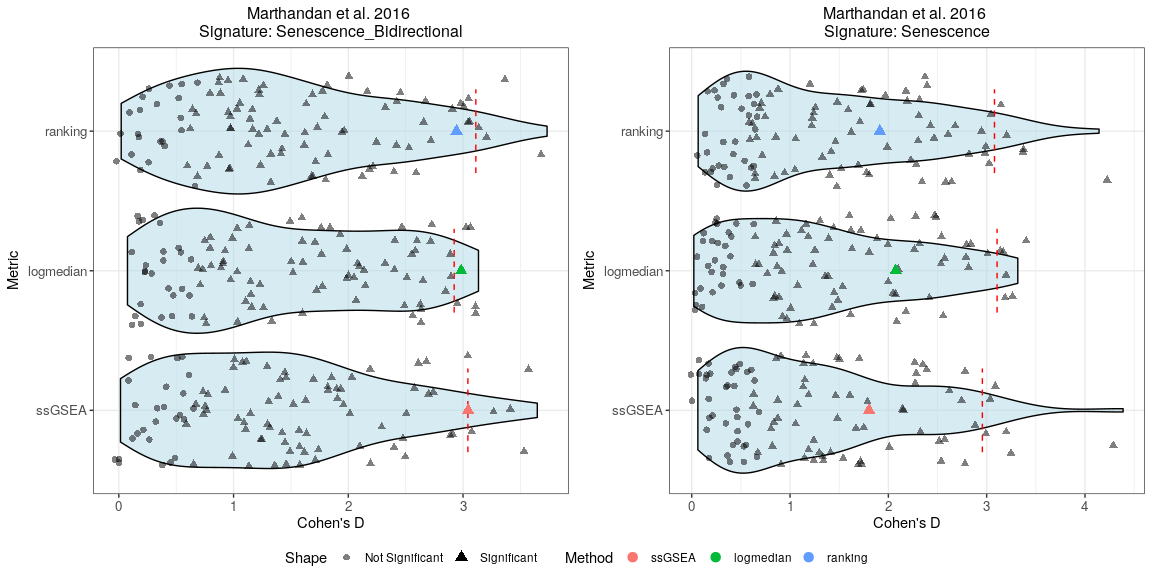
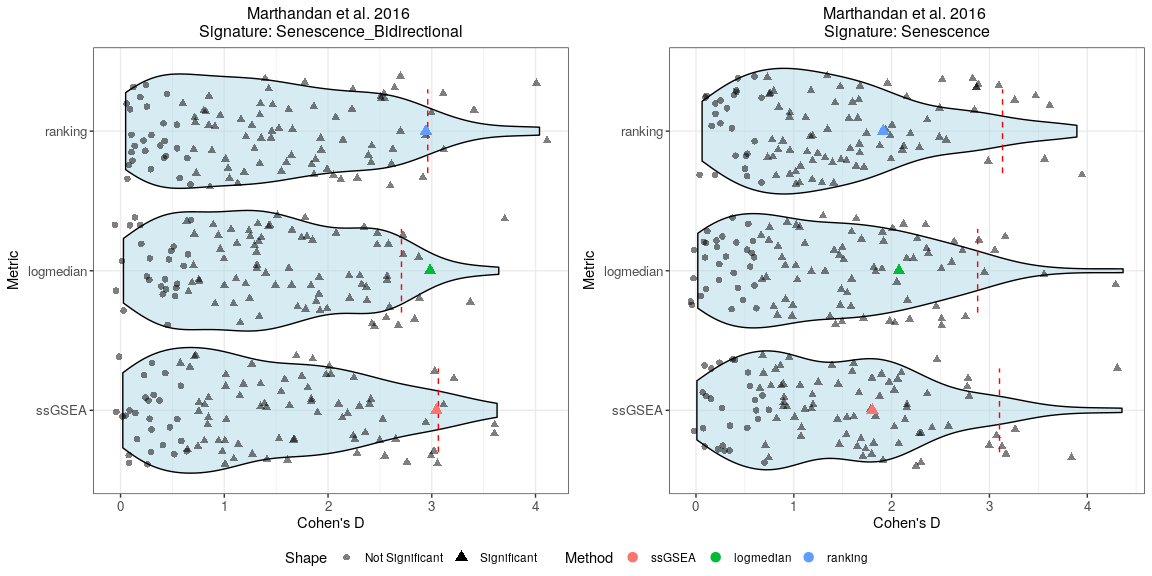
Merge two signatures in only one plot readme example scores

Changed region(s): [[0.0938, 0.0938, 0.5, 0.8438], [0.5938, 0.0938, 0.9688, 0.8438]]

diff --git a/README.md b/README.md
@@ -477,43 +477,6 @@ The following example uses the **“ssGSEA”** method for score
 calculation, both for unidirectional and bidirectional signatures.
 
 ``` r
-#  
-# df_Scores <- CalculateScores(data = counts_example, 
-#                              metadata = metadata_example, 
-#                              method = "ssGSEA", 
-#                              gene_sets = list(Senescence=SimpleSenescenceSignature))
-
-senescence_triggers_colors <- c(
-  "none" = "#E57373",  # Soft red   
-  "Telomere shortening" = "#4FC3F7"  # Vivid sky blue  
-)
-
-cond_cohend <- list(A=c("Senescent"),  
-                    B=c("Proliferative"))
-
-PlotScores(data = counts_example, 
-           metadata = metadata_example, 
-           gene_sets = list(Senescence=SimpleSenescenceSignature),
-           ColorVariable = "SenescentType", 
-           GroupingVariable="Condition",  
-           method ="ssGSEA", 
-           ColorValues = senescence_triggers_colors, 
-           ConnectGroups=TRUE, 
-           ncol = NULL, 
-           nrow = NULL, 
-           widthTitle=24, 
-           limits = NULL, 
-           legend_nrow = 1, 
-           pointSize=4,
-           cond_cohend=cond_cohend,
-           title="Marthandan et al. 2016",
-           labsize=7, 
-           titlesize = 10)  
-```
-
-<img src="man/figures/README-exampleScoresGSEA_uni-1.png" width="40%" />
-
-``` r
 # df_Scores <- CalculateScores(data = counts_example, 
 #                              metadata = metadata_example, 
 #                              method = "ssGSEA", 
@@ -529,7 +492,8 @@ cond_cohend <- list(A=c("Senescent"),
 
 PlotScores(data = counts_example, 
            metadata = metadata_example, 
-           gene_sets = list(Senescence=SimpleSenescenceSignature_bidirectional),
+           gene_sets = list(Senescence_Bidirectional = SimpleSenescenceSignature_bidirectional,
+                          Senescence  = SimpleSenescenceSignature),
            ColorVariable = "SenescentType", 
            GroupingVariable="Condition",  
            method ="ssGSEA", 
@@ -547,7 +511,7 @@ PlotScores(data = counts_example,
            titlesize = 10)  
 ```
 
-<img src="man/figures/README-examplessGSEA_bi-1.png" width="40%" />
+<img src="man/figures/README-examplessGSEA-1.png" width="100%" />
 
 #### Ranking method
 
@@ -558,42 +522,6 @@ calculation, both for unidirectional and bidirectional signatures.
 # df_Scores <- CalculateScores(data = counts_example, 
 #                              metadata = metadata_example, 
 #                              method = "ranking", 
-#                              gene_sets = list(Senescence=SimpleSenescenceSignature))
-
-senescence_triggers_colors <- c(
-  "none" = "#E57373",  # Soft red   
-  "Telomere shortening" = "#4FC3F7"  # Vivid sky blue  
-)
-
-cond_cohend <- list(A=c("Senescent"),  
-                    B=c("Proliferative"))
-
-PlotScores(data = counts_example, 
-           metadata = metadata_example, 
-           gene_sets = list(Senescence=SimpleSenescenceSignature),
-           ColorVariable = "SenescentType", 
-           GroupingVariable="Condition",  
-           method ="ranking", 
-           ColorValues = senescence_triggers_colors, 
-           ConnectGroups=TRUE, 
-           ncol = NULL, 
-           nrow = NULL, 
-           widthTitle=24, 
-           limits = NULL, 
-           legend_nrow = 1, 
-           pointSize=4,
-           cond_cohend=cond_cohend,
-           title="Marthandan et al. 2016",
-           labsize=7, 
-           titlesize = 10)  
-```
-
-<img src="man/figures/README-ranking_unidirect-1.png" width="40%" />
-
-``` r
-# df_Scores <- CalculateScores(data = counts_example, 
-#                              metadata = metadata_example, 
-#                              method = "ranking", 
 #                              gene_sets = list(Senescence=SimpleSenescenceSignature_bidirectional))
 
 senescence_triggers_colors <- c(
@@ -606,7 +534,8 @@ cond_cohend <- list(A=c("Senescent"),
 
 PlotScores(data = counts_example, 
            metadata = metadata_example, 
-           gene_sets = list(Senescence=SimpleSenescenceSignature_bidirectional),
+           gene_sets = list(Senescence_Bidirectional = SimpleSenescenceSignature_bidirectional,
+                          Senescence  = SimpleSenescenceSignature),
            ColorVariable = "SenescentType", 
            GroupingVariable="Condition",  
            method ="ranking", 
@@ -624,7 +553,7 @@ PlotScores(data = counts_example,
            titlesize = 10)  
 ```
 
-<img src="man/figures/README-ranking_bidirect-1.png" width="40%" />
+<img src="man/figures/README-ranking-1.png" width="100%" />
 
 #### All methods
 
@@ -1024,7 +953,7 @@ DEGs_continuous2$days[1:3,]
 #> RNA18SN3  0.06743439 9.577467  1.554171 0.1280974 0.9997685 -6.129426
 ```
 
-This usage of the `lmexpression`parameter also allows the user to
+This usage of the `lmexpression` parameter also allows the user to
 combine categorical variables with numeric variables:
 
 -   `Intercept`: Baseline expression when days = 0 and Condition =
